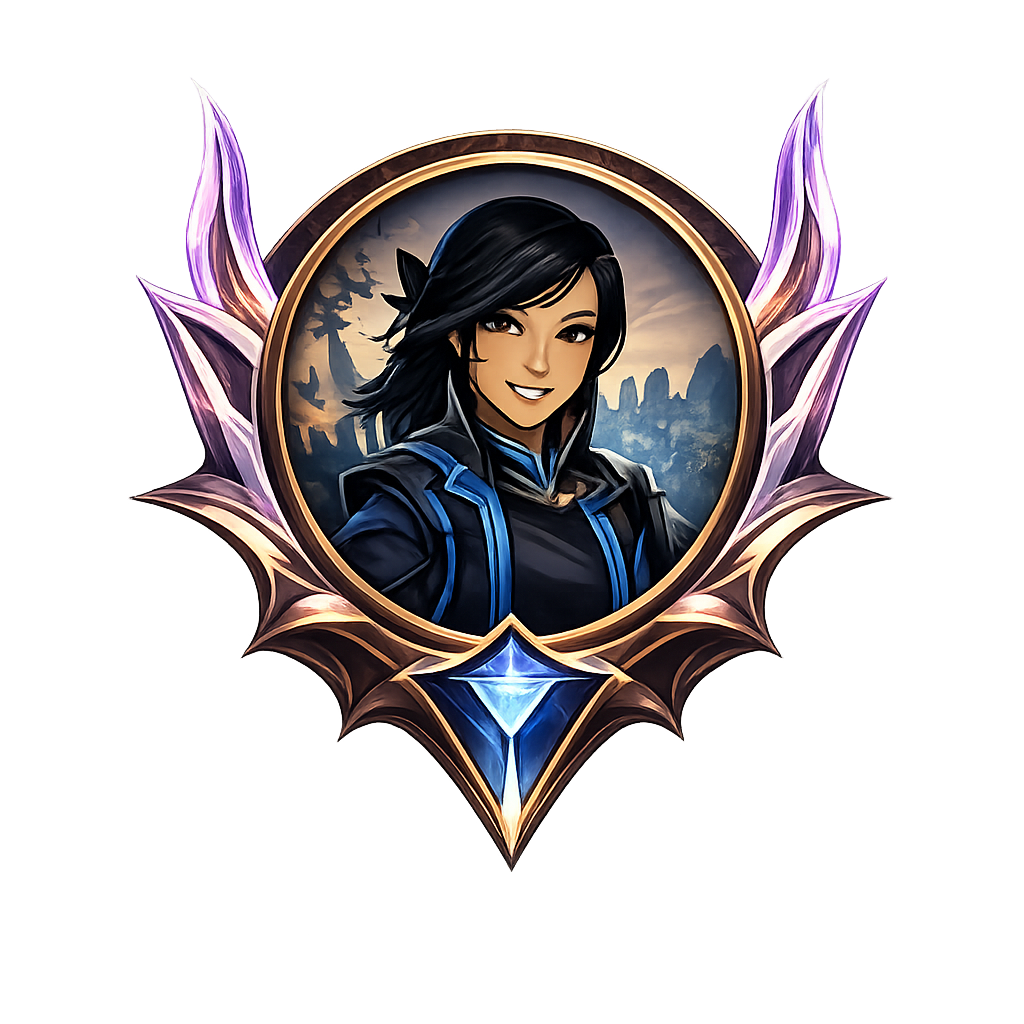
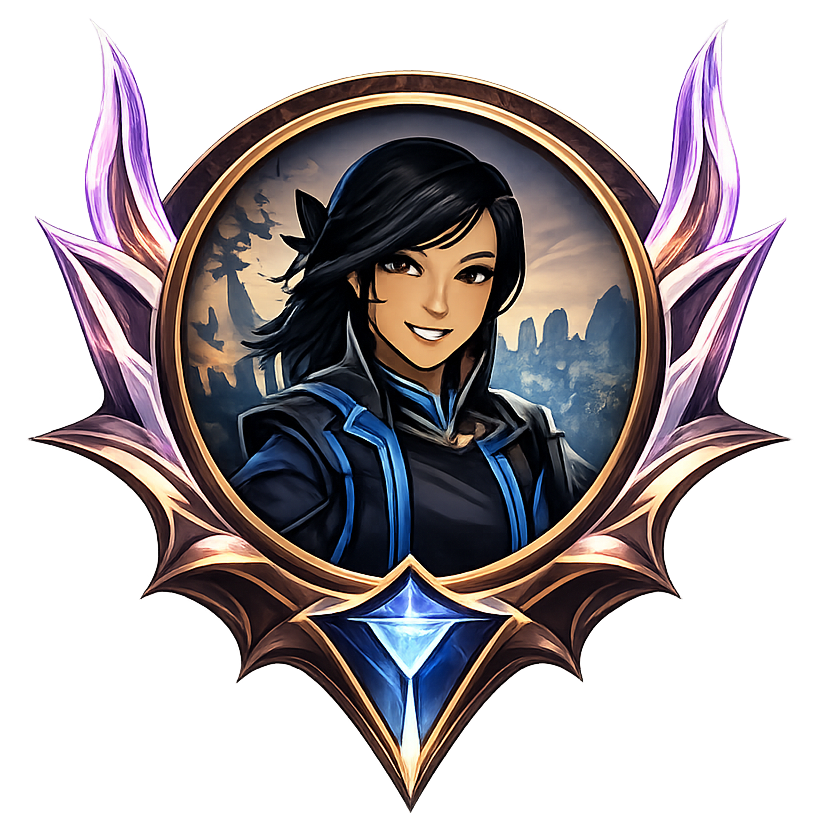
Added projects section

diff --git a/static/css/projects.css b/static/css/projects.css
@@ -1,0 +1,172 @@
+/* Stage wrapper inside your right red area */
+.projects-stage{
+  width: 100%;
+  height: 100%;
+  padding: 28px 0 48px;
+  overflow: auto;
+}
+
+.projects-shell{
+  width: min(1100px, 94%);
+  margin: 0 auto;
+}
+
+/* ===== Header ===== */
+.projects-header{
+  text-align: center;
+  margin: 10px auto 26px;
+}
+
+.projects-kicker-icon{
+  width: 26px;
+  height: auto;
+  opacity: 0.9;
+  filter: drop-shadow(0 0 10px rgba(212,175,55,0.18));
+  margin-bottom: 10px;
+}
+
+.projects-title-row{
+  display: flex;
+  align-items: center;
+  justify-content: center;
+  gap: 18px;
+}
+
+.projects-line{
+  width: min(220px, 24vw);
+  height: auto;
+  opacity: 0.9;
+  filter: drop-shadow(0 0 10px rgba(212,175,55,0.10));
+}
+
+.projects-title{
+  margin: 0;
+  font-family: "Cinzel", serif;
+  letter-spacing: 0.26em;
+  font-weight: 500;
+  color: rgba(230,216,181,0.92);
+  text-shadow: 0 2px 10px rgba(0,0,0,0.55);
+}
+
+/* ===== Grid ===== */
+.projects-grid{
+  display: grid;
+  grid-template-columns: repeat(5, minmax(0, 1fr));
+  gap: 14px;
+  align-items: stretch;
+  justify-content: center;
+  margin-top: 18px;
+}
+
+/* Responsive */
+@media (max-width: 1200px){
+  .projects-grid{ grid-template-columns: repeat(3, 1fr); }
+}
+@media (max-width: 780px){
+  .projects-grid{ grid-template-columns: repeat(2, 1fr); }
+}
+@media (max-width: 520px){
+  .projects-grid{ grid-template-columns: 1fr; }
+}
+
+/* ===== Cards ===== */
+.project-card{
+  position: relative;
+  display: block;
+  text-decoration: none;
+  border-radius: 0; /* keep it sharp like LoL */
+  overflow: hidden;
+
+  background: rgba(10,10,14,0.35);
+  border: 1px solid rgba(212,175,55,0.18);
+
+  box-shadow:
+    0 14px 34px rgba(0,0,0,0.55),
+    inset 0 0 0 1px rgba(255,255,255,0.03);
+
+  transform: translateY(0);
+  transition: transform .25s ease, border-color .25s ease, box-shadow .25s ease;
+}
+
+.project-media{
+  aspect-ratio: 3 / 4;
+  width: 100%;
+  background: rgba(0,0,0,0.25);
+}
+
+.project-media img{
+  width: 100%;
+  height: 100%;
+  object-fit: cover;
+  display: block;
+  filter: contrast(1.02) saturate(0.98);
+}
+
+/* Footer label strip */
+.project-footer{
+  padding: 12px 12px 14px;
+  text-align: center;
+  background: linear-gradient(
+    to bottom,
+    rgba(0,0,0,0.55),
+    rgba(0,0,0,0.82)
+  );
+  border-top: 1px solid rgba(212,175,55,0.14);
+}
+
+.project-title{
+  font-family: "Cinzel", serif;
+  letter-spacing: 0.12em;
+  color: rgba(230,216,181,0.92);
+  font-size: 0.95rem;
+}
+
+.project-sub{
+  margin-top: 6px;
+  font-family: "Cinzel", serif;
+  letter-spacing: 0.16em;
+  color: rgba(230,216,181,0.65);
+  font-size: 0.72rem;
+}
+
+/* Hover overlay (EXPLORE) */
+.project-hover{
+  position: absolute;
+  inset: 0;
+  display: grid;
+  place-items: center;
+  opacity: 0;
+  transform: translateY(6px);
+  transition: opacity .22s ease, transform .22s ease;
+  pointer-events: none;
+}
+
+.project-cta{
+  font-family: "Cinzel", serif;
+  letter-spacing: 0.18em;
+  color: rgba(230,216,181,0.92);
+  padding: 10px 16px;
+
+  border: 1px solid rgba(212,175,55,0.35);
+  background: rgba(10,10,14,0.45);
+  box-shadow:
+    0 0 18px rgba(212,175,55,0.12),
+    inset 0 0 0 1px rgba(255,255,255,0.04);
+
+  text-shadow: 0 2px 10px rgba(0,0,0,0.55);
+}
+
+/* Hover effects */
+.project-card:hover{
+  transform: translateY(-4px);
+  border-color: rgba(212,175,55,0.34);
+  box-shadow:
+    0 18px 42px rgba(0,0,0,0.62),
+    0 0 28px rgba(212,175,55,0.10),
+    inset 0 0 0 1px rgba(255,255,255,0.04);
+}
+
+.project-card:hover .project-hover{
+  opacity: 1;
+  transform: translateY(0);
+}

diff --git a/templates/profile_base.html b/templates/profile_base.html
@@ -22,10 +22,6 @@
     <div class="nav-brand">Chrysalis Portfolio</div>
 
     <nav class="nav-right">
-      <!-- Music toggle -->
-      <button id="musicToggle" class="music-btn" type="button" aria-pressed="false" aria-label="Toggle music">
-        ♫
-      </button> 
       <a class="{{ 'active' if active_page=='overview' else '' }}" href="{{ url_for('overview') }}">Home</a>
       <a class="{{ 'active' if active_page=='projects' else '' }}" href="/projects">Projects</a>
       <a class="{{ 'active' if active_page=='about' else '' }}" href="{{ url_for('about') }}">About Me</a>
@@ -70,16 +66,17 @@
 
 
     <div class="social">
+            <!-- Music toggle -->
+      <button id="musicToggle" class="music-btn" type="button" aria-pressed="false" aria-label="Toggle music">
+        ♫
+      </button> 
       <a href="https://www.linkedin.com/in/chrysalis-woon-38376198/" aria-label="LinkedIn">in</a>
-      <div class="badge image-badge" title="GitHub">
-        <a href="https://github.com/chrysaliswoon" aria-label="GitHub"><img
-            src="{{ url_for('static', filename='assets/github_logo.png') }}" alt="Github"></a>
-      </div>
+        <!-- <a href="https://github.com/chrysaliswoon" aria-label="GitHub"><img
+            src="{{ url_for('static', filename='assets/github_logo.png') }}" alt="Github"></a> -->
       <a href="mailto:woonyx93@gmail.com" aria-label="Email"><i class="bi bi-envelope"></i></a>
     </div>
 
   </aside>
-
 
 
   <!-- RIGHT SIDE (page-specific content goes here) -->

diff --git a/templates/components/projects/grid.html b/templates/components/projects/grid.html
@@ -1,0 +1,18 @@
+<section class="projects-grid" aria-label="Projects">
+    {% for p in projects %}
+    <a class="project-card" href="{{ p.url }}" aria-label="Open {{ p.title }}">
+        <div class="project-media">
+            <img src="{{ url_for('static', filename=p.image) }}" alt="" aria-hidden="true">
+        </div>
+
+        <div class="project-footer">
+            <div class="project-title">{{ p.title }}</div>
+            <div class="project-sub">{{ p.subtitle }}</div>
+        </div>
+
+        <div class="project-hover">
+            <div class="project-cta">EXPLORE →</div>
+        </div>
+    </a>
+    {% endfor %}
+</section>

diff --git a/templates/components/projects/header.html b/templates/components/projects/header.html
@@ -1,0 +1,19 @@
+<header class="projects-header">
+  <div class="projects-kicker">
+    <img class="projects-kicker-icon"
+         src="{{ url_for('static', filename='assets/project_logo.png') }}"
+         alt="" aria-hidden="true">
+  </div>
+
+  <div class="projects-title-row">
+    <img class="projects-line"
+         src="{{ url_for('static', filename='assets/line_left.png') }}"
+         alt="" aria-hidden="true">
+
+    <h1 class="projects-title">PROJECTS</h1>
+
+    <img class="projects-line"
+         src="{{ url_for('static', filename='assets/line_right.png') }}"
+         alt="" aria-hidden="true">
+  </div>
+</header>

diff --git a/templates/projects.html b/templates/projects.html
@@ -1,6 +1,17 @@
 {% extends "profile_base.html" %}
 
-{% block stage %}
-
+{% block head %}
+  {{ super() }}
+  <link rel="stylesheet" href="{{ url_for('static', filename='css/projects.css') }}">
 {% endblock %}
 
+{% block stage %}
+<div class="projects-stage">
+  <div class="projects-shell">
+
+    {% include "components/projects/header.html" %}
+    {% include "components/projects/grid.html" %}
+
+  </div>
+</div>
+{% endblock %}

diff --git a/static/css/profile.css b/static/css/profile.css
@@ -179,7 +179,7 @@ html, body {
 }
 
 .portrait-img {
-  width: 260px;
+  width: 200px;
   height: auto;
   display: block;
   object-fit: contain;
@@ -297,10 +297,16 @@ html, body {
 
 
 .badge img{
-  width: 100%;
+  width: 200%;
   height: auto;
   display: block;
 }
+
+/* .badge img_social{
+  width: 200%;
+  height: auto;
+  display: block;
+} */
 
 .image-badge img{
   filter:

diff --git a/api/index.py b/api/index.py
@@ -27,8 +27,9 @@ PROFILE = {
 PROJECTS = [
         {
         "slug": "cloudscale",
-        "title": "CloudScale",
-        "subtitle": "Scalable Analytics Platform",
+        "title": "Cloud Scale",
+        "subtitle": "Automated Report Generation Using AWS Cloud Services",
+        "image": "assets/projects/cloudscale.png",
         "stack": ["AWS Lambda", "EC2", "Apache Superset"],
         "description": (
             "Designed a scalable analytics platform using cost-effective, "
@@ -47,7 +48,8 @@ PROJECTS = [
     {
         "slug": "booktribe",
         "title": "BookTribe",
-        "subtitle": "Full-Stack Reading Platform",
+        "subtitle": "Reading Platform Using Modern Full-Stack Architecture",
+        "image": "assets/projects/booktribe.png",
         "stack": ["Angular", "Spring Boot", "MySQL", "DigitalOcean"],
         "description": (
             "Developed a full-stack reading platform with user authentication "
@@ -65,8 +67,9 @@ PROJECTS = [
 
     {
         "slug": "financial-tracker",
-        "title": "Financial Tracker",
+        "title": "Finance Tracker",
         "subtitle": "Collaborative Expense Tracking App",
+        "image": "assets/projects/finance_tracker.png",
         "stack": [
             "MongoDB", "Express.js", "React", "Node.js", "Vercel"
         ],
@@ -82,7 +85,22 @@ PROJECTS = [
         },
         "tags": ["MERN", "CI/CD", "Collaboration"],
         "featured": False
-    }
+    },
+    {
+        "slug": "catris",
+        "title": "Catris",
+        "subtitle": "Cat-Themed Puzzle Game Inspired by Classic Tetris",
+        "image": "assets/projects/catris.png",
+
+    },
+        {
+        "slug": "landscape game",
+        "title": "Landscape Game",
+        "subtitle": "Landscape game inspired by Coffee Tycoon",
+        "image": "assets/projects/landscape.png",
+
+    },
+
 ]
 
 @app.get("/")
@@ -95,7 +113,13 @@ def overview():
 
 @app.get("/projects")
 def projects():
-    return render_template("projects.html", profile=PROJECTS, active_page="projects")
+    return render_template(
+        "projects.html",
+        profile=PROFILE,     # keep profile for the left panel + navbar brand
+        projects=PROJECTS,   # projects data for the grid
+        active_page="projects"
+    )
+
 
 @app.get("/about")
 def about():

diff --git a/README.md b/README.md
@@ -4,3 +4,10 @@
 Inspired by my recent obsession with the Demacia lore in League of Legends and my love of the Harry Potter aesthetic, I was inspired to create my portfolio website around that theme.
 
 All of the assets in this project was generated by ChatGPT and inspired by existing work by various people all around the world. 
+
+
+To Run The Local Host:
+
+- python3 -m venv .venv
+- source .venv/bin/activate
+- python3 run.py
